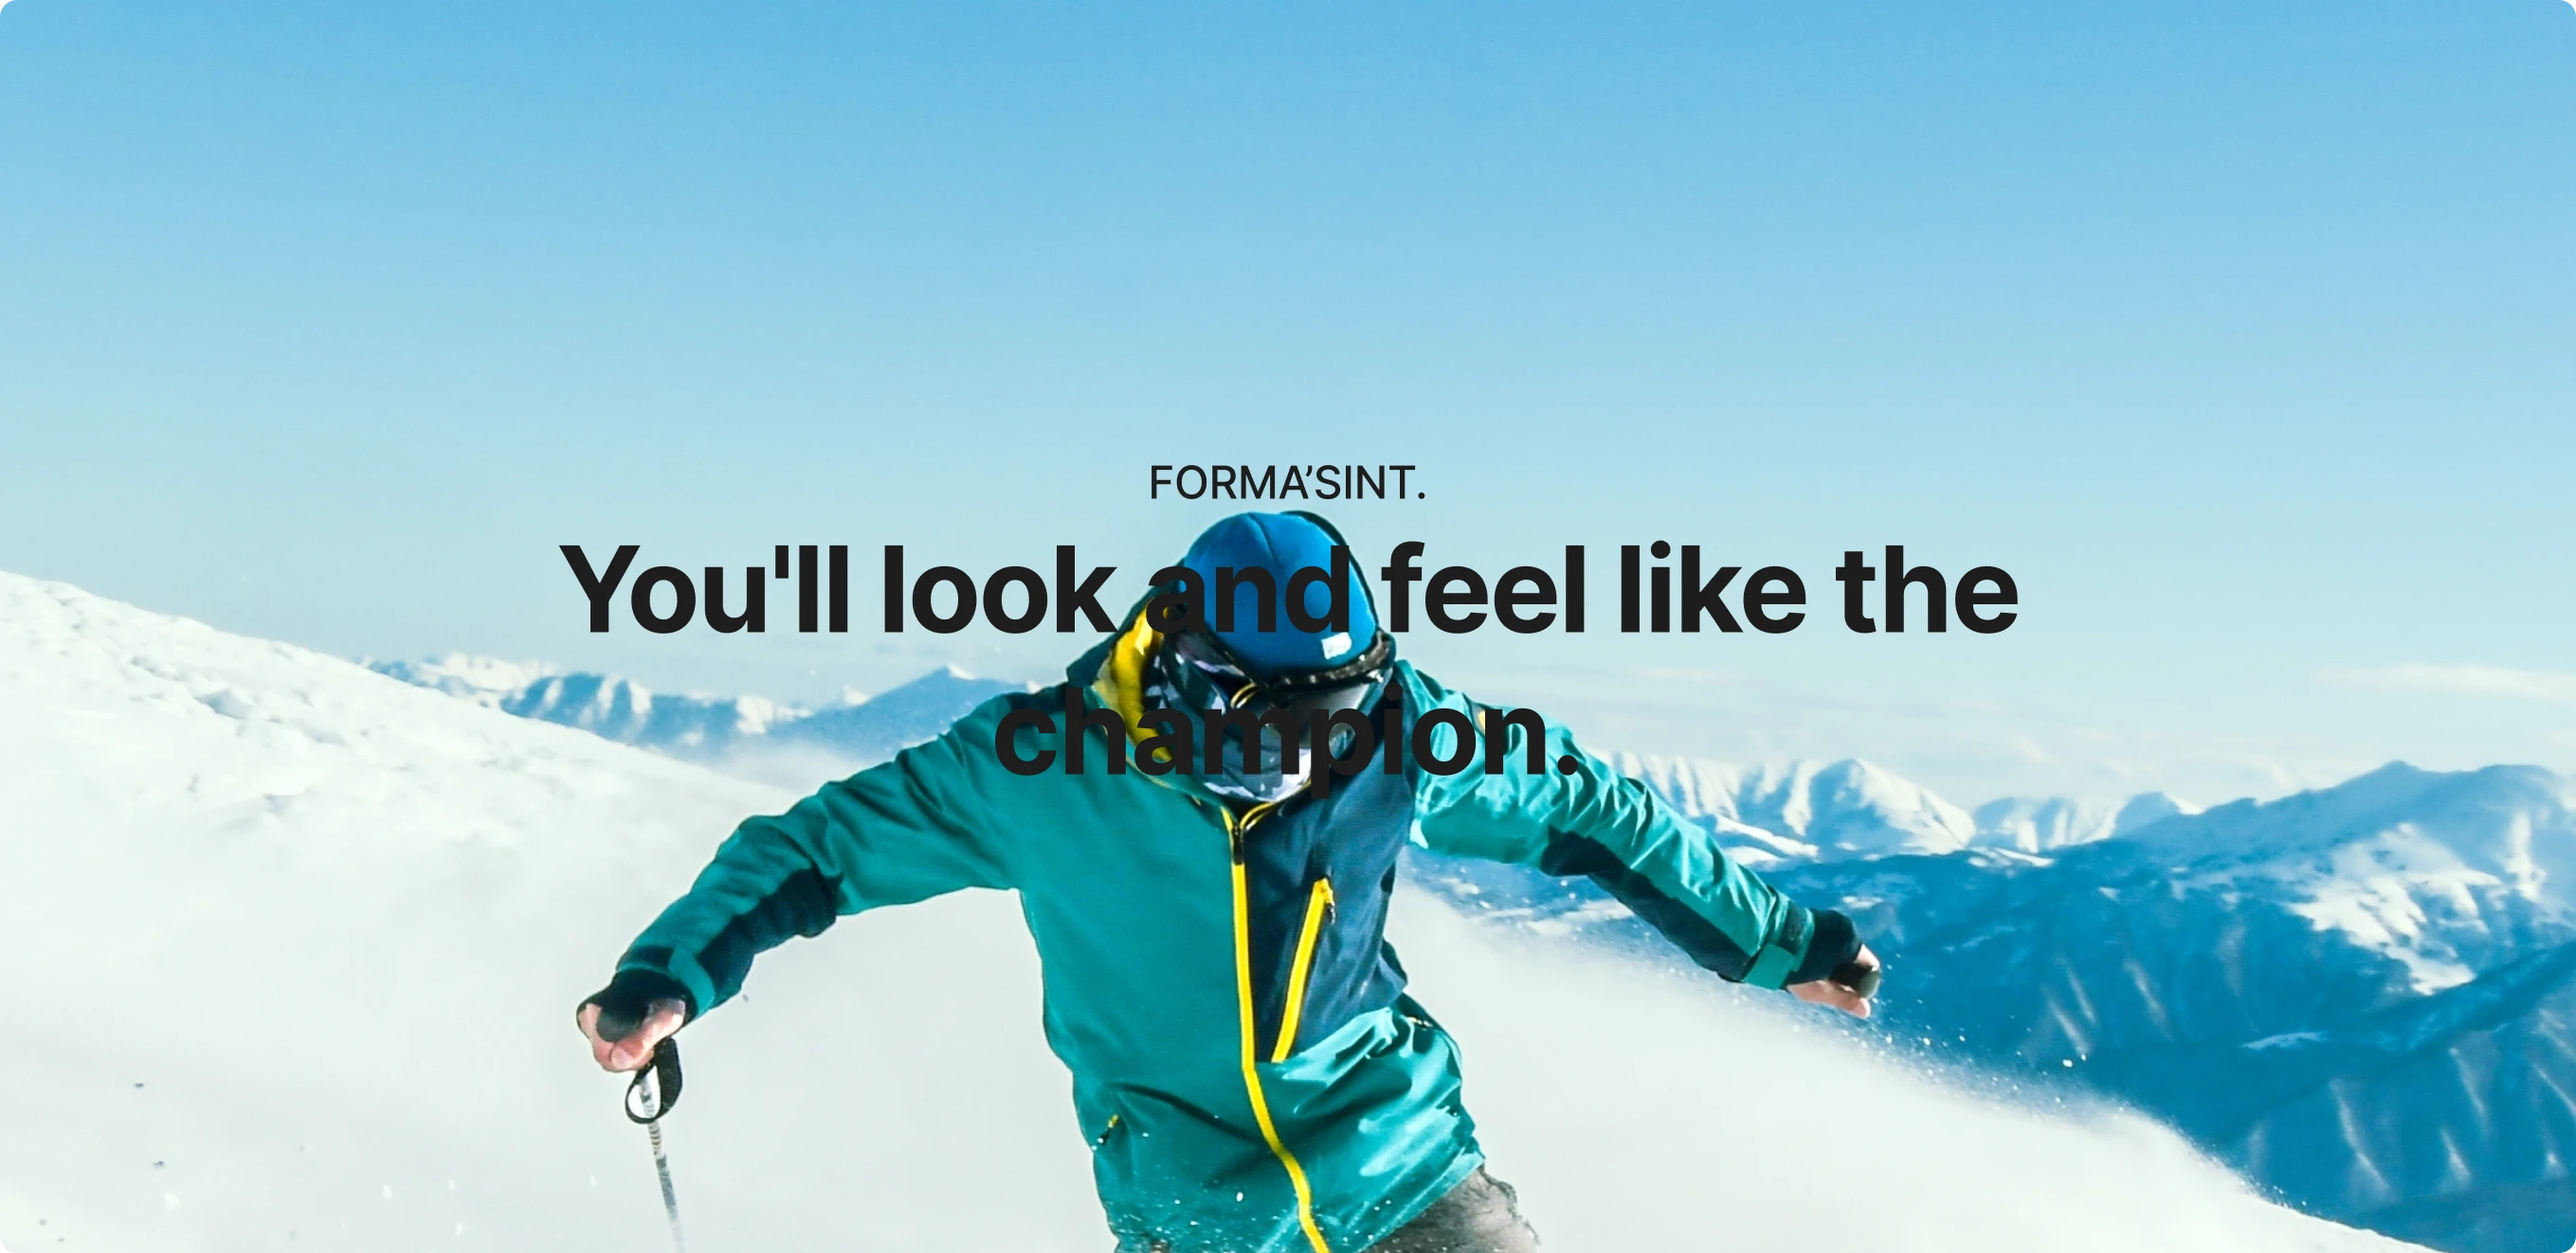
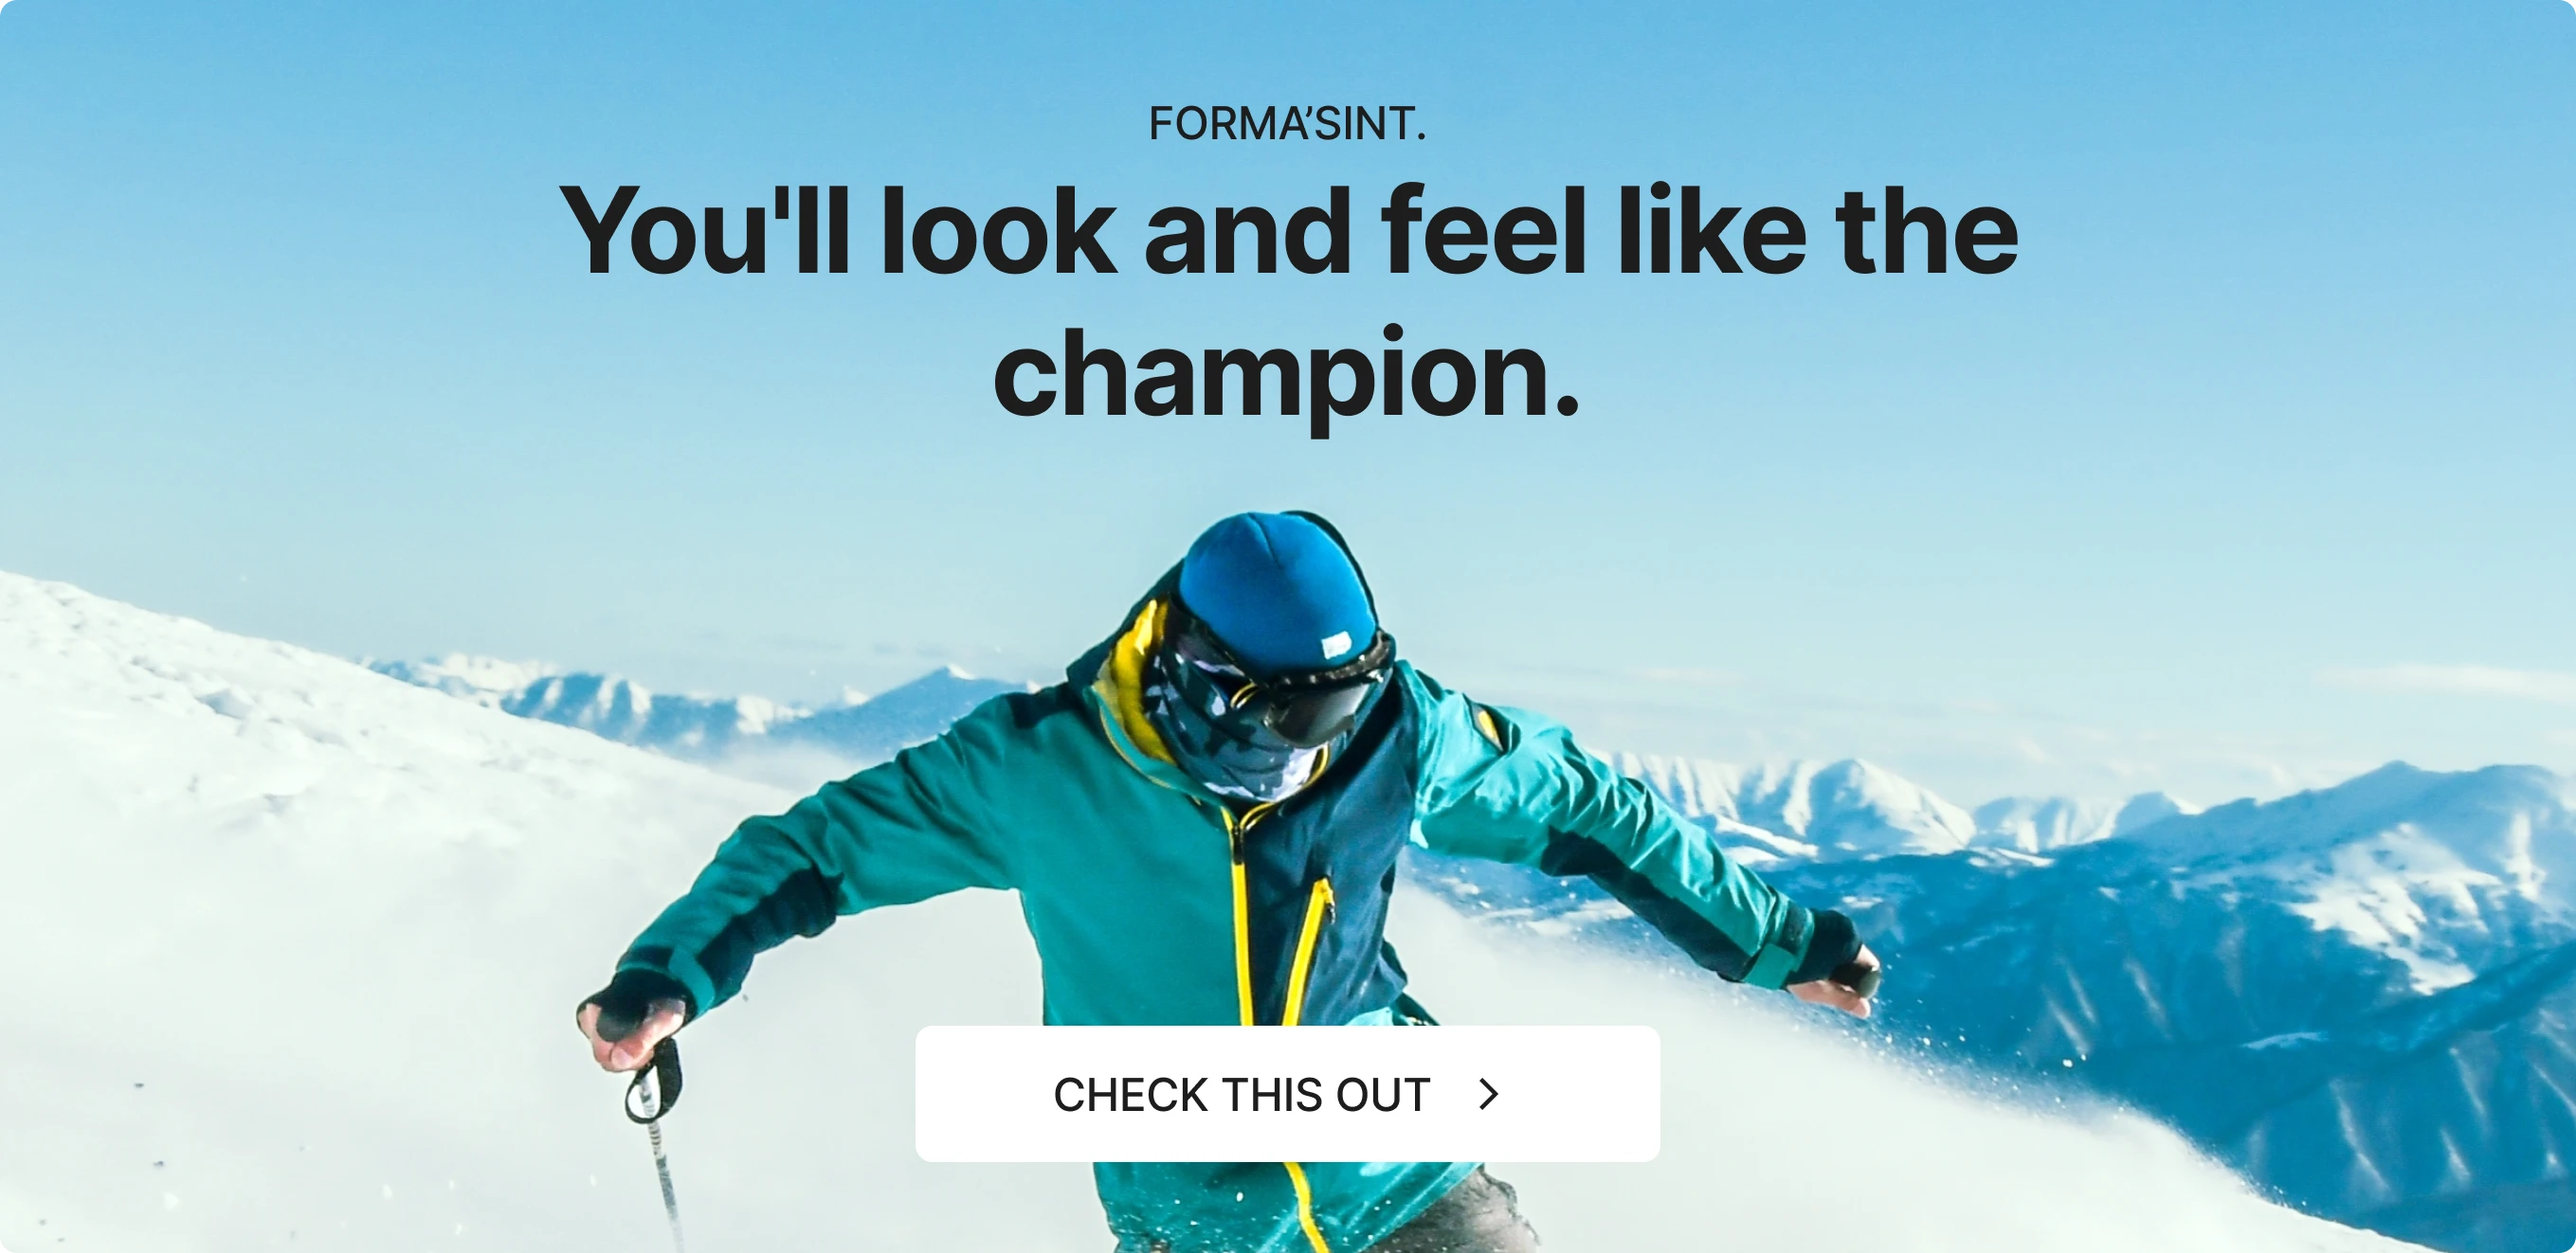
styles and intersectionObserver fixed

diff --git a/css/header.css b/css/header.css
@@ -172,12 +172,44 @@ nav > ul {
   justify-content: unset;
   align-items: flex-start;
 }
+.hero {
+  height: 100vh;
+  justify-content: space-between;
+}
+.hero__image {
+  min-height: 75vh;
+}
+
+@media screen and (min-width: 580px) and (max-width: 1568px) {
+  .hero__image {
+    max-width: 1920px;
+    overflow: hidden;
+    height: 70vh;
+  }
+  .hero__image img {
+    height: 100vh;
+    width: 100%;
+    /* object-fit: cover; */
+    /* object-position: 200% 0; */
+    display: block;
+    margin: -120px 0 0 -419px;
+  }
+}
+@media screen and (max-width: 1223px) {
+}
 @media screen and (min-width: 1368px) {
   .hero {
     height: 100vh;
-    justify-content: center;
+    /* justify-content: unset; */
+
+    /* justify-content: center; */
   }
 }
+/* @media screen and (min-width: 1221px) {
+  .hero {
+    padding-top: 16.8rem;
+  }
+} */
 @media screen and (min-width: 770px) {
   nav {
     padding: 3.2rem 4.2rem;

diff --git a/javascript/ProductRenderer.js b/javascript/ProductRenderer.js
@@ -152,12 +152,9 @@ class ProductRenderer {
     products.forEach((product) => fadeInObserver.observe(product));
     const lastProduct = products[products.length - 1];
     if (!lastProduct) return;
-    const loadMoreObserver = new IntersectionObserver(
-      async ([entry]) => {
-        if (entry.isIntersecting) await this.renderProducts();
-      },
-      { threshold: 1 },
-    );
+    const loadMoreObserver = new IntersectionObserver(async ([entry]) => {}, {
+      threshold: 1,
+    });
     loadMoreObserver.observe(lastProduct);
   }
 

diff --git a/index.html b/index.html
@@ -66,6 +66,7 @@
       </header>
       <main id="main-content" class="main">
         <section class="hero observe" id="home">
+          <div></div>
           <picture class="hero__logo">
             <source media="(max-width:580px)" srcset="assets/logo_mobile.webp">
             <img src="assets/logo_container.webp" alt="Forma'sint Logo" id="hero-logo" loading="lazy">

diff --git a/css/swiper.css b/css/swiper.css
@@ -103,7 +103,7 @@
   color: var(--color-primary);
   text-transform: uppercase;
   font-weight: 500;
-  font-size: clamp(0.85rem, 1vw, 1.2rem);
+  font-size: 1.6rem;
 }
 .swiper-slide__img-wishlistContainer {
   position: absolute;
